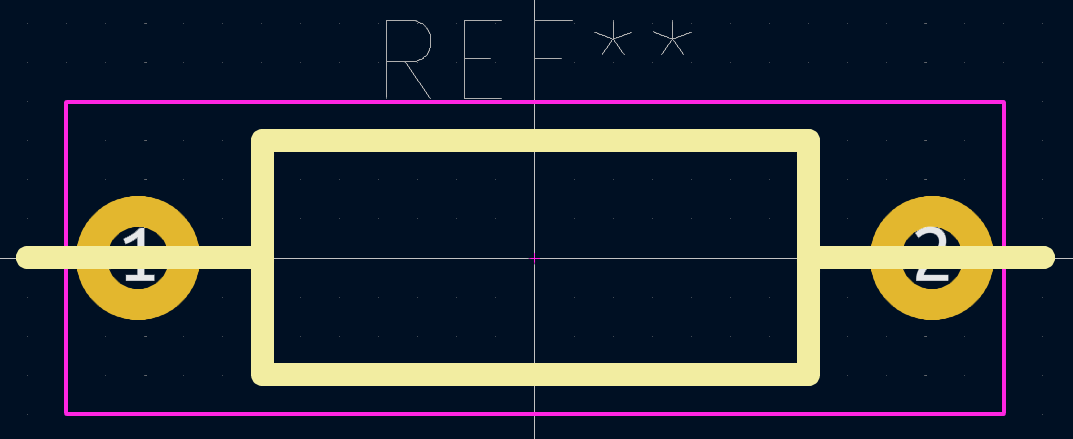
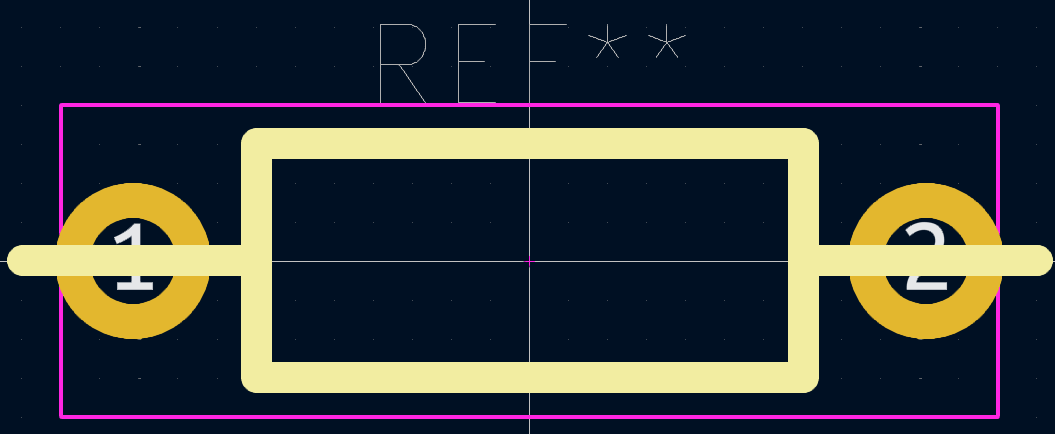
Increased width of lines to 0.4mm

diff --git a/README.md b/README.md
@@ -6,7 +6,7 @@ This is a KiCad library of footprints for a few generic components, where the
 footprints resemble the symbol of the component. This is useful for creating
 PCBs for educational purposes.
 
-In these footprints, the lines that represent connections are 0.3mm wide.
+In these footprints, the lines that represent connections are 0.4mm wide.
 
 ## Symbolic Resistor
 
